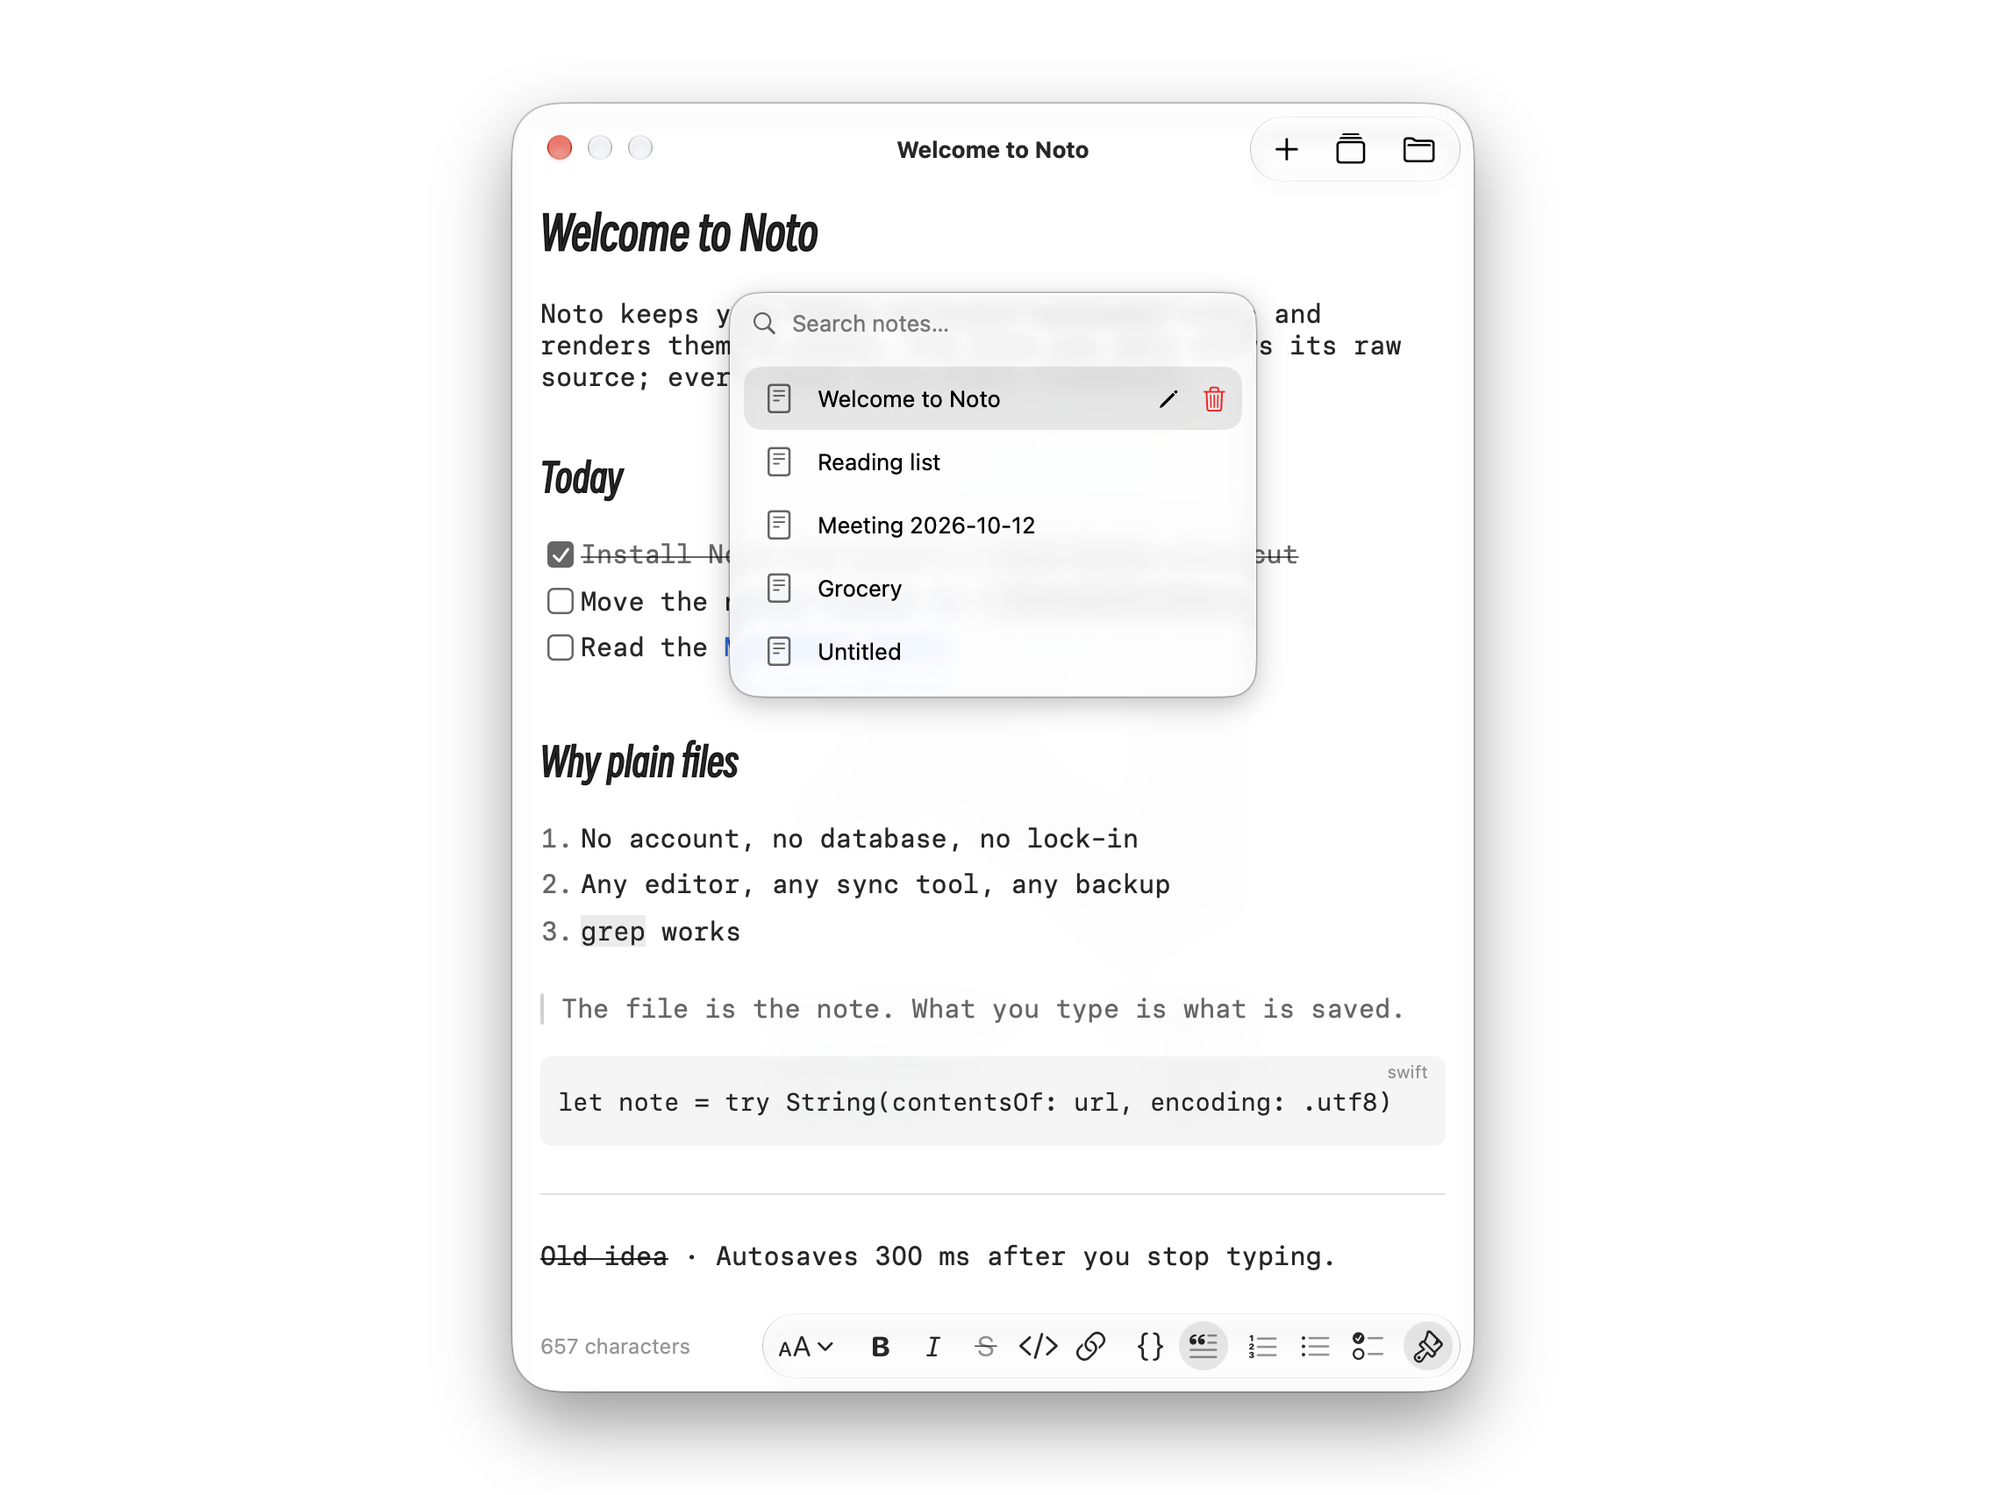
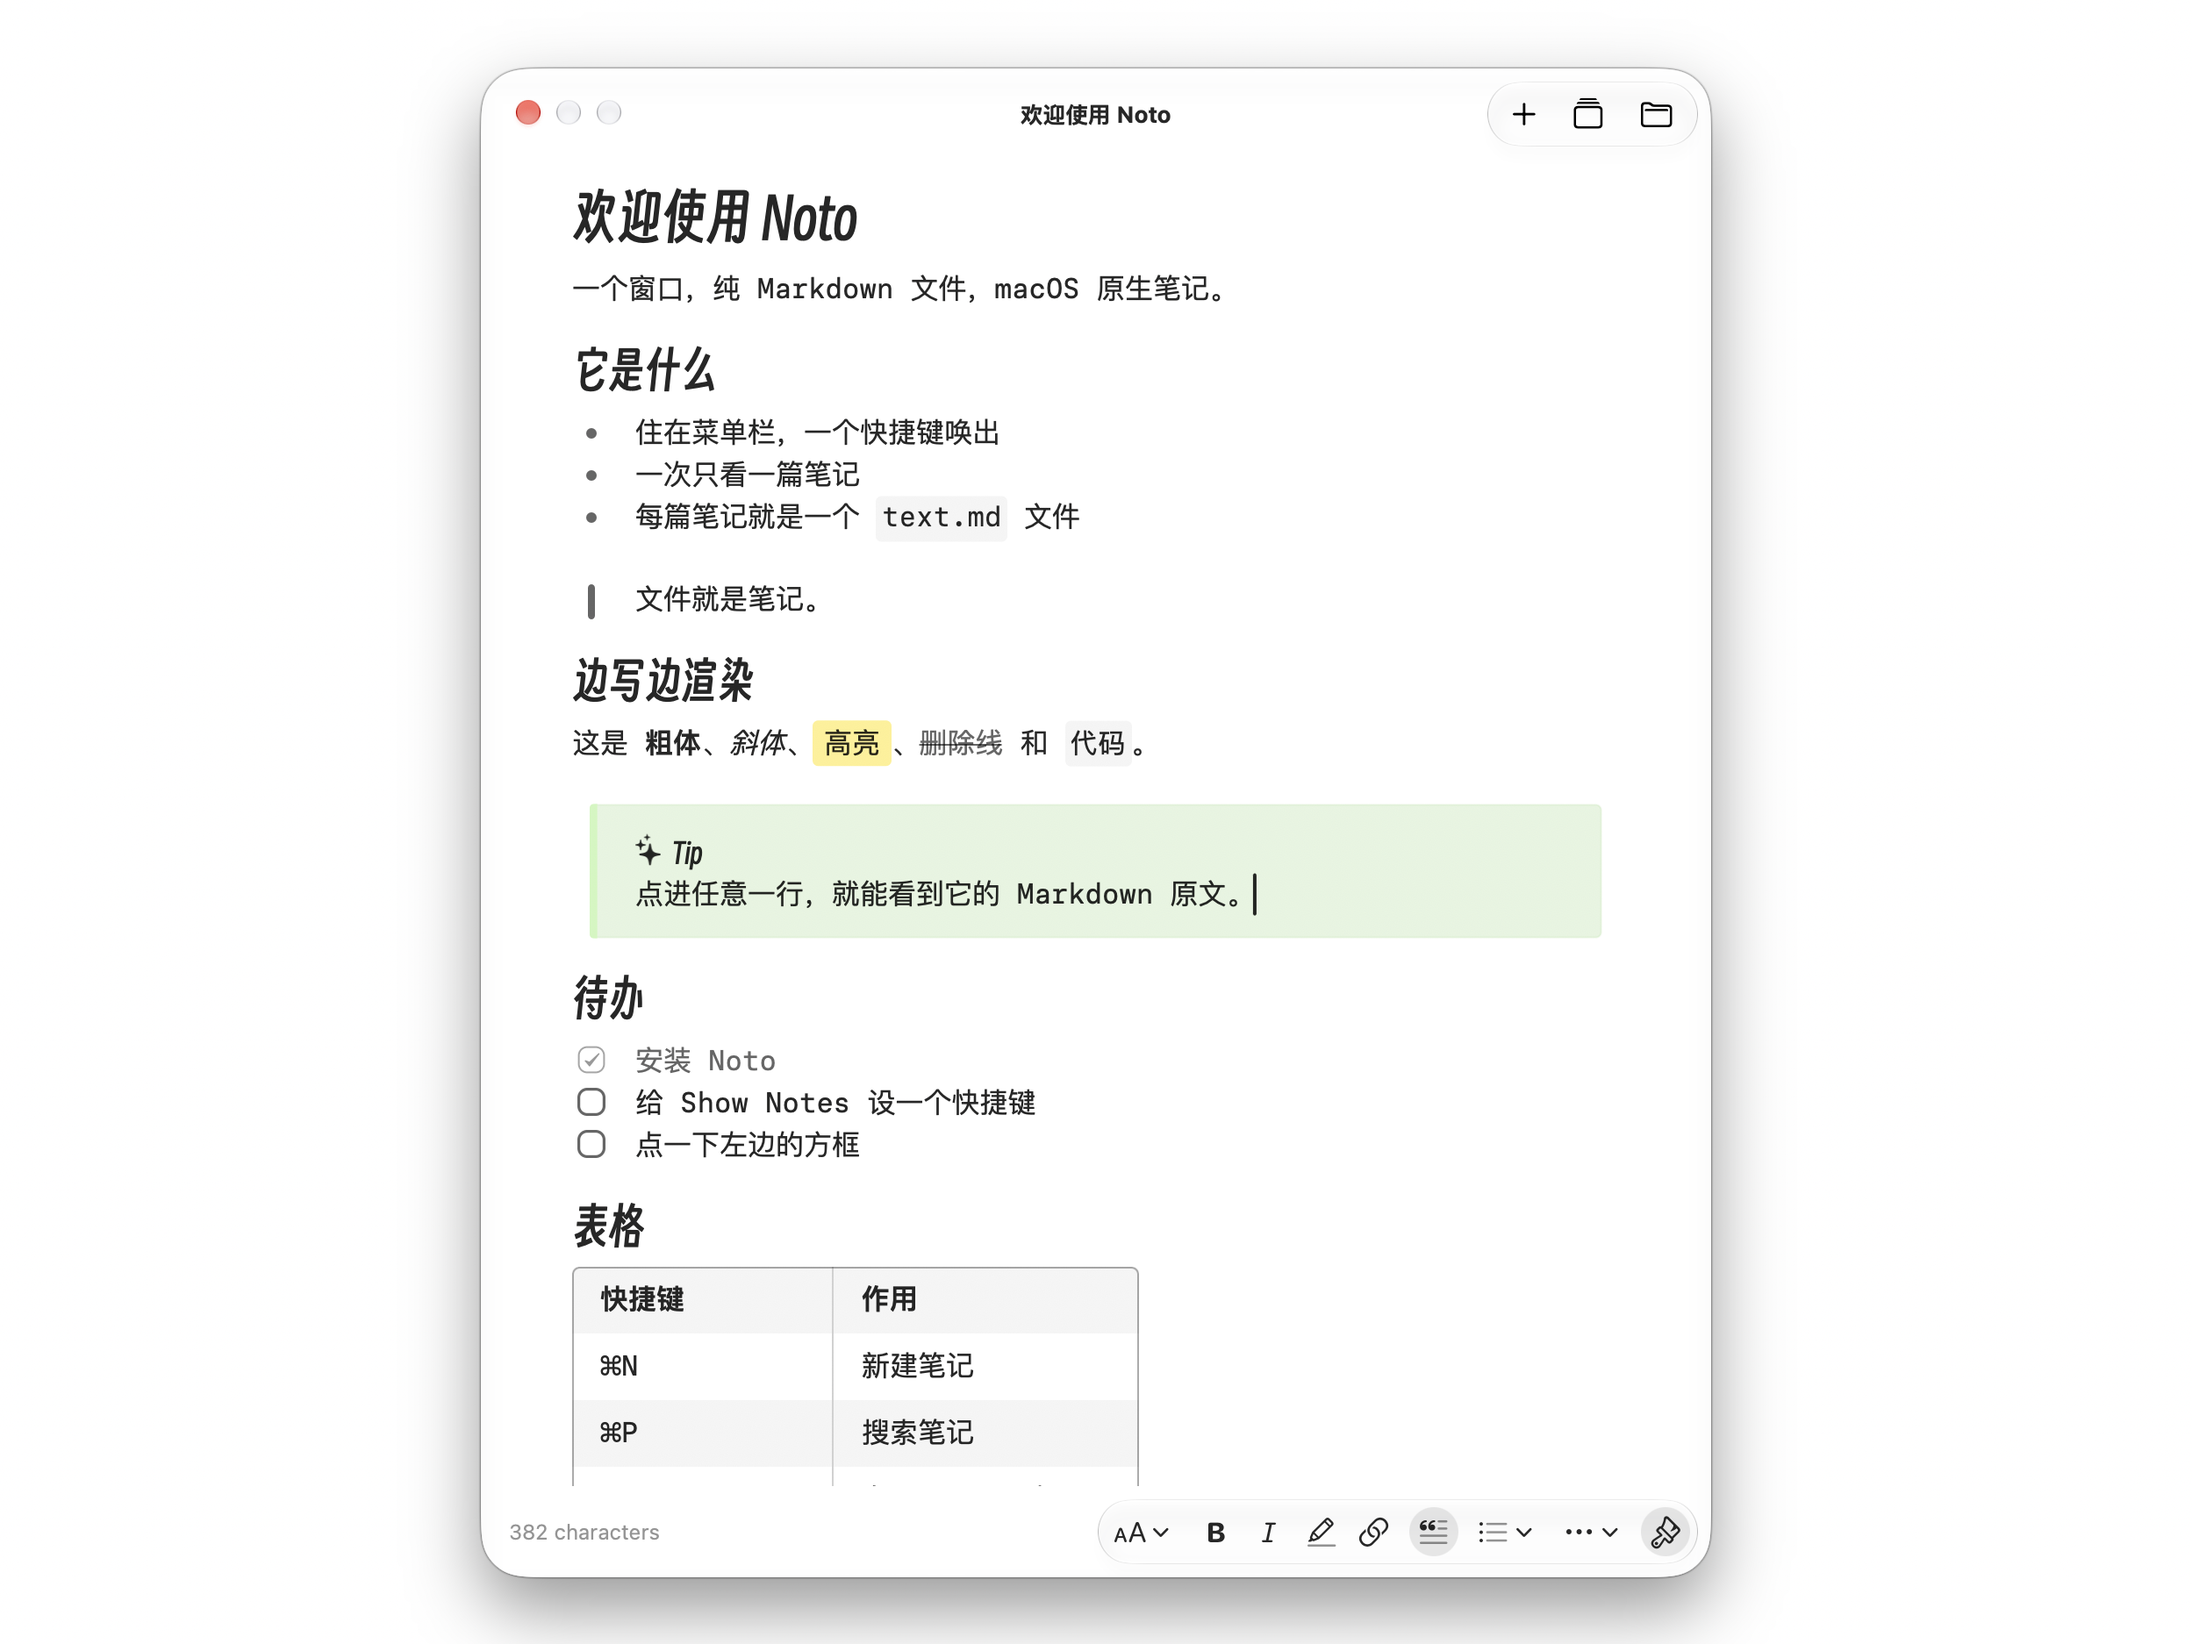
Keep a table's rows when Delete joins it to the heading above
MDTextKit 0.1.1 ends the restyle range where the unchanged block starts, so
a Delete on the blank line before a table no longer rebuilds the grid from
its header row alone. The editor harness covers Delete, undo and forward
Delete on that blank line.

diff --git a/Tests/notes-editor-test.swift b/Tests/notes-editor-test.swift
@@ -25,6 +25,7 @@ struct NotesEditorTests {
         testFormattingReports()
         testCheckboxesAndLinkClicks()
         testTablesRenderAsGrids()
+        testDeleteBeforeATableKeepsItsRows()
         testCustomFonts()
         testTextHeight()
         testHeightBeforeDraw()
@@ -415,14 +416,28 @@ struct NotesEditorTests {
         let source = "| a | b |\n| --- | --- |\n| 1 | 2 |\n"
         let input = NoteEditorInput(id: NoteID(rawValue: "Table.md"), source: source, epoch: 1)
         let editor = makeEditor(input: input)
-        var tables = 0
-        editor.textView.mdTextStorage.enumerateAttribute(
-            .attachment, in: NSRange(location: 0, length: editor.textView.mdTextStorage.length), options: []
-        ) { value, _, _ in
-            if value is MDTableTextAttachment { tables += 1 }
-        }
-        check("a pipe table becomes one grid attachment", tables == 1)
+        check("a pipe table becomes one grid attachment", grids(in: editor.textView) == 1)
         check("the grid stands for the table's Markdown", editor.textView.markdown == source)
+    }
+
+    private static func testDeleteBeforeATableKeepsItsRows() {
+        let table = "| a | b |\n| --- | --- |\n| 1 | 2 |\n| 3 | 4 |\n"
+        let source = "## Heading\n\n\(table)\nAfter\n"
+        let joined = "## Heading\n\(table)\nAfter\n"
+        let input = NoteEditorInput(id: NoteID(rawValue: "Table.md"), source: source, epoch: 1)
+        let editor = makeEditor(input: input)
+        let blankLine = (editor.textView.string as NSString).range(of: "\n\n").location + 1
+
+        editor.textView.setSelectedRange(NSRange(location: blankLine, length: 0))
+        editor.textView.deleteBackward(nil)
+        check("Delete on the blank line before a table keeps its rows", editor.textView.markdown == joined)
+        check("the table stays one grid after the Delete", grids(in: editor.textView) == 1)
+        editor.coordinator.editorUndoManager.undo()
+        check("undo restores the blank line before the table", editor.textView.markdown == source)
+
+        editor.textView.setSelectedRange(NSRange(location: blankLine, length: 0))
+        editor.textView.deleteForward(nil)
+        check("forward Delete on the blank line keeps the rows too", editor.textView.markdown == joined)
     }
 
     private static func testCustomFonts() {
@@ -597,6 +612,16 @@ struct NotesEditorTests {
 
     private static func font(in textView: NSTextView, at location: Int) -> NSFont? {
         textView.textStorage?.attribute(.font, at: location, effectiveRange: nil) as? NSFont
+    }
+
+    private static func grids(in textView: NoteTextView) -> Int {
+        var grids = 0
+        textView.mdTextStorage.enumerateAttribute(
+            .attachment, in: NSRange(location: 0, length: textView.mdTextStorage.length), options: []
+        ) { value, _, _ in
+            if value is MDTableTextAttachment { grids += 1 }
+        }
+        return grids
     }
 
     /// The layout manager draws a highlight from its own attribute, not `.backgroundColor`.

diff --git a/CHANGELOG.md b/CHANGELOG.md
@@ -9,6 +9,10 @@ and the versions follow the version rule in [release.md](docs/release.md#the-ver
 
 - The copyright line in Get Info names the Noto author and the Tinycast author.
 
+### Fixed
+
+- Delete on the blank line before a table dropped every row but the header from the note.
+
 ## [0.3.0] - 2026-10-13
 
 ### Added
